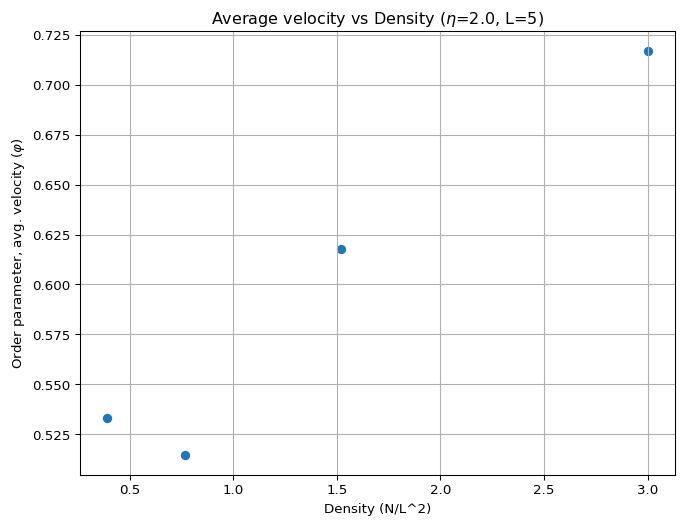
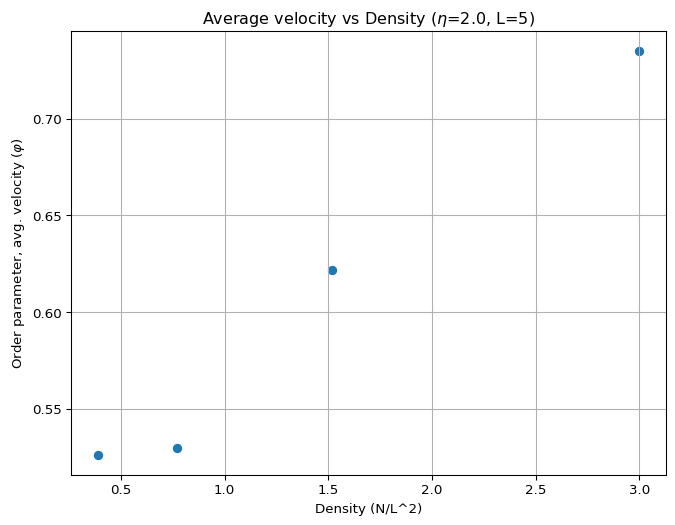
deploy: 121c4026bcbbf6b79d8cd0e5d887f20c9e654b11

diff --git a/modules/collective-motion/assignment.html b/modules/collective-motion/assignment.html
@@ -554,6 +554,7 @@ div.csl-indent {
 <ol type="1">
 <li>Implement the Couzin rules and motion.</li>
 <li>Implement an animation that shows the individuals moving. You can see an example in the <a href="../../modules/collective-motion/vicsek-animation.html" class="btn btn-primary">Vicsek animation</a> chapter.</li>
+<li>Implement an order parameter that quantifies the degree of alignment in the system. Read the original paper <span class="citation" data-cites="couzin2002collective">(<a href="#ref-couzin2002collective" role="doc-biblioref">Couzin et al. 2002</a>)</span> to find out how they defined it. You can also check the <a href="../../modules/collective-motion/vicsek.html#order-parameter">Vicsek order parameter</a> for inspiration.</li>
 <li>Explore the parameter space and report your insights. Find the four collective dynamical behaviours described in the original paper <span class="citation" data-cites="couzin2002collective">(<a href="#ref-couzin2002collective" role="doc-biblioref">Couzin et al. 2002</a>)</span>.</li>
 </ol>
 <p>Upload the code and a short report (1-2 pages done in LaTeX) describing your findings to the course platform.</p>
@@ -561,8 +562,8 @@ div.csl-indent {
 <section id="extra-mile-optional" class="level2">
 <h2 class="anchored" data-anchor-id="extra-mile-optional">Extra Mile (Optional)</h2>
 <ul>
-<li>Add sliders to allow change parameters (of your choice) on real time</li>
-<li>Implement the model in 3D, following the original paper <span class="citation" data-cites="couzin2002collective">(<a href="#ref-couzin2002collective" role="doc-biblioref">Couzin et al. 2002</a>)</span></li>
+<li>Add sliders to allow change parameters (of your choice) on real time.</li>
+<li>Implement the model in 3D, following the original paper <span class="citation" data-cites="couzin2002collective">(<a href="#ref-couzin2002collective" role="doc-biblioref">Couzin et al. 2002</a>)</span>.</li>
 </ul>
 <p><strong>Good luck and enjoy your coding!</strong></p>
 
@@ -1043,18 +1044,19 @@ window.document.addEventListener("DOMContentLoaded", function (event) {
 <span id="cb1-14"><a href="#cb1-14" aria-hidden="true" tabindex="-1"></a></span>
 <span id="cb1-15"><a href="#cb1-15" aria-hidden="true" tabindex="-1"></a><span class="ss">1. </span>Implement the Couzin rules and motion.</span>
 <span id="cb1-16"><a href="#cb1-16" aria-hidden="true" tabindex="-1"></a><span class="ss">2. </span>Implement an animation that shows the individuals moving. You can see an example in the <span class="co">[</span><span class="ot">Vicsek animation</span><span class="co">](vicsek-animation.qmd)</span>{.btn .btn-primary} chapter.</span>
-<span id="cb1-17"><a href="#cb1-17" aria-hidden="true" tabindex="-1"></a><span class="ss">3. </span>Explore the parameter space and report your insights. Find the four collective dynamical behaviours described in the original paper <span class="co">[</span><span class="ot">@couzin2002collective</span><span class="co">]</span>.</span>
-<span id="cb1-18"><a href="#cb1-18" aria-hidden="true" tabindex="-1"></a></span>
-<span id="cb1-19"><a href="#cb1-19" aria-hidden="true" tabindex="-1"></a>Upload the code and a short report (1-2 pages done in LaTeX) describing your findings to the course platform.</span>
-<span id="cb1-20"><a href="#cb1-20" aria-hidden="true" tabindex="-1"></a></span>
-<span id="cb1-21"><a href="#cb1-21" aria-hidden="true" tabindex="-1"></a><span class="fu">## Extra Mile (Optional)</span></span>
-<span id="cb1-22"><a href="#cb1-22" aria-hidden="true" tabindex="-1"></a></span>
-<span id="cb1-23"><a href="#cb1-23" aria-hidden="true" tabindex="-1"></a><span class="ss">- </span>Add sliders to allow change parameters (of your choice) on real time</span>
-<span id="cb1-24"><a href="#cb1-24" aria-hidden="true" tabindex="-1"></a><span class="ss">- </span>Implement the model in 3D, following the original paper <span class="co">[</span><span class="ot">@couzin2002collective</span><span class="co">]</span></span>
-<span id="cb1-25"><a href="#cb1-25" aria-hidden="true" tabindex="-1"></a></span>
-<span id="cb1-26"><a href="#cb1-26" aria-hidden="true" tabindex="-1"></a>\vspace{1cm}</span>
-<span id="cb1-27"><a href="#cb1-27" aria-hidden="true" tabindex="-1"></a></span>
-<span id="cb1-28"><a href="#cb1-28" aria-hidden="true" tabindex="-1"></a>**Good luck and enjoy your coding!**</span></code><button title="Copy to Clipboard" class="code-copy-button"><i class="bi"></i></button></pre></div>
+<span id="cb1-17"><a href="#cb1-17" aria-hidden="true" tabindex="-1"></a><span class="ss">3. </span>Implement an order parameter that quantifies the degree of alignment in the system. Read the original paper <span class="co">[</span><span class="ot">@couzin2002collective</span><span class="co">]</span> to find out how they defined it. You can also check the <span class="co">[</span><span class="ot">Vicsek order parameter</span><span class="co">](vicsek.qmd#order-parameter)</span> for inspiration.</span>
+<span id="cb1-18"><a href="#cb1-18" aria-hidden="true" tabindex="-1"></a><span class="ss">4. </span>Explore the parameter space and report your insights. Find the four collective dynamical behaviours described in the original paper <span class="co">[</span><span class="ot">@couzin2002collective</span><span class="co">]</span>.</span>
+<span id="cb1-19"><a href="#cb1-19" aria-hidden="true" tabindex="-1"></a></span>
+<span id="cb1-20"><a href="#cb1-20" aria-hidden="true" tabindex="-1"></a>Upload the code and a short report (1-2 pages done in LaTeX) describing your findings to the course platform.</span>
+<span id="cb1-21"><a href="#cb1-21" aria-hidden="true" tabindex="-1"></a></span>
+<span id="cb1-22"><a href="#cb1-22" aria-hidden="true" tabindex="-1"></a><span class="fu">## Extra Mile (Optional)</span></span>
+<span id="cb1-23"><a href="#cb1-23" aria-hidden="true" tabindex="-1"></a></span>
+<span id="cb1-24"><a href="#cb1-24" aria-hidden="true" tabindex="-1"></a><span class="ss">- </span>Add sliders to allow change parameters (of your choice) on real time.</span>
+<span id="cb1-25"><a href="#cb1-25" aria-hidden="true" tabindex="-1"></a><span class="ss">- </span>Implement the model in 3D, following the original paper <span class="co">[</span><span class="ot">@couzin2002collective</span><span class="co">]</span>.</span>
+<span id="cb1-26"><a href="#cb1-26" aria-hidden="true" tabindex="-1"></a></span>
+<span id="cb1-27"><a href="#cb1-27" aria-hidden="true" tabindex="-1"></a>\vspace{1cm}</span>
+<span id="cb1-28"><a href="#cb1-28" aria-hidden="true" tabindex="-1"></a></span>
+<span id="cb1-29"><a href="#cb1-29" aria-hidden="true" tabindex="-1"></a>**Good luck and enjoy your coding!**</span></code><button title="Copy to Clipboard" class="code-copy-button"><i class="bi"></i></button></pre></div>
 </div></div></div></div></div>
 </div> <!-- /content -->
 <footer class="footer">

diff --git a/modules/collective-motion/vicsek.html b/modules/collective-motion/vicsek.html
@@ -935,26 +935,26 @@ Solved: Order parameter (click to expand)
 <div class="cell-output cell-output-stdout">
 <pre><code>Simulating for N=40, L=3.16, density=4.0
     noise=0.000, phi=1.0000
-    noise=0.556, phi=0.9841
-    noise=1.111, phi=0.9377
-    noise=1.667, phi=0.8544
-    noise=2.222, phi=0.7582
-    noise=2.778, phi=0.6355
-    noise=3.333, phi=0.4858
-    noise=3.889, phi=0.3553
-    noise=4.444, phi=0.2461
-    noise=5.000, phi=0.1815
+    noise=0.556, phi=0.9836
+    noise=1.111, phi=0.9273
+    noise=1.667, phi=0.8526
+    noise=2.222, phi=0.7530
+    noise=2.778, phi=0.6357
+    noise=3.333, phi=0.5033
+    noise=3.889, phi=0.3452
+    noise=4.444, phi=0.2414
+    noise=5.000, phi=0.1728
 Simulating for N=100, L=5.00, density=4.0
     noise=0.000, phi=1.0000
-    noise=0.556, phi=0.9811
-    noise=1.111, phi=0.9288
-    noise=1.667, phi=0.8294
-    noise=2.222, phi=0.7235
-    noise=2.778, phi=0.5763
-    noise=3.333, phi=0.4470
-    noise=3.889, phi=0.2721
-    noise=4.444, phi=0.1744
-    noise=5.000, phi=0.1143</code></pre>
+    noise=0.556, phi=0.9818
+    noise=1.111, phi=0.9255
+    noise=1.667, phi=0.8424
+    noise=2.222, phi=0.7307
+    noise=2.778, phi=0.5753
+    noise=3.333, phi=0.4306
+    noise=3.889, phi=0.2912
+    noise=4.444, phi=0.1875
+    noise=5.000, phi=0.1211</code></pre>
 </div>
 <div class="cell-output cell-output-display">
 <div id="fig-vicsek-order-parameter" class="quarto-figure quarto-figure-center quarto-float anchored" alt="Order parameter vs noise for different N. Density = 4.">
@@ -981,10 +981,10 @@ Figure&nbsp;2
 <div class="cell-output cell-output-stdout">
 <pre><code>Box size: 5, density: 0.10, num_boids: 2 (skipped)
 Box size: 5, density: 0.20, num_boids: 4 (skipped)
-Box size: 5, density: 0.39, avg velocity: 0.5334
-Box size: 5, density: 0.77, avg velocity: 0.5149
-Box size: 5, density: 1.52, avg velocity: 0.6179
-Box size: 5, density: 3.00, avg velocity: 0.7166</code></pre>
+Box size: 5, density: 0.39, avg velocity: 0.5264
+Box size: 5, density: 0.77, avg velocity: 0.5296
+Box size: 5, density: 1.52, avg velocity: 0.6216
+Box size: 5, density: 3.00, avg velocity: 0.7349</code></pre>
 </div>
 <div class="cell-output cell-output-display">
 <div id="fig-vicsek-order-parameter-density" class="quarto-figure quarto-figure-center quarto-float anchored" alt="Order parameter vs density. Noise = 2.0 and L = 5.">

diff --git a/modules/ode-2d/cdima.html b/modules/ode-2d/cdima.html
@@ -687,7 +687,7 @@ Solution: State at t=20 (click to expand)
 </div>
 <div id="callout-3" class="callout-3-contents callout-collapse collapse">
 <div class="callout-body-container callout-body">
-<div id="f1659ec6" class="cell" data-execution_count="2">
+<div id="0c5b2e1e" class="cell" data-execution_count="2">
 <div class="sourceCode cell-code" id="cb4"><pre class="sourceCode python code-with-copy"><code class="sourceCode python"><span id="cb4-1"><a href="#cb4-1" aria-hidden="true" tabindex="-1"></a><span class="im">from</span> scipy.integrate <span class="im">import</span> solve_ivp</span>
 <span id="cb4-2"><a href="#cb4-2" aria-hidden="true" tabindex="-1"></a><span class="im">import</span> numpy <span class="im">as</span> np</span>
 <span id="cb4-3"><a href="#cb4-3" aria-hidden="true" tabindex="-1"></a></span>

diff --git a/modules/ode-2d/van-der-pol.html b/modules/ode-2d/van-der-pol.html
@@ -605,7 +605,7 @@ Figure&nbsp;1: Phase plane of the Van der Pol system with mu = 3. Trajectories a
 <p>The Van der Pol system has a stable limit cycle that attracts trajectories from a wide range of initial conditions. Plot this limit cycle as a <span class="math inline">\(x(t)-t\)</span> plot, and verify that it matches the phase plane trajectories.</p>
 <div id="cell-fig-limit-cycle" class="cell" data-fig-height="4" data-fig-width="8" data-execution_count="2">
 <div class="cell-output cell-output-stderr">
-<pre><code>/tmp/ipykernel_3178/2854713749.py:14: UserWarning:
+<pre><code>/tmp/ipykernel_3260/2854713749.py:14: UserWarning:
 
 No artists with labels found to put in legend.  Note that artists whose label start with an underscore are ignored when legend() is called with no argument.
 </code></pre>
